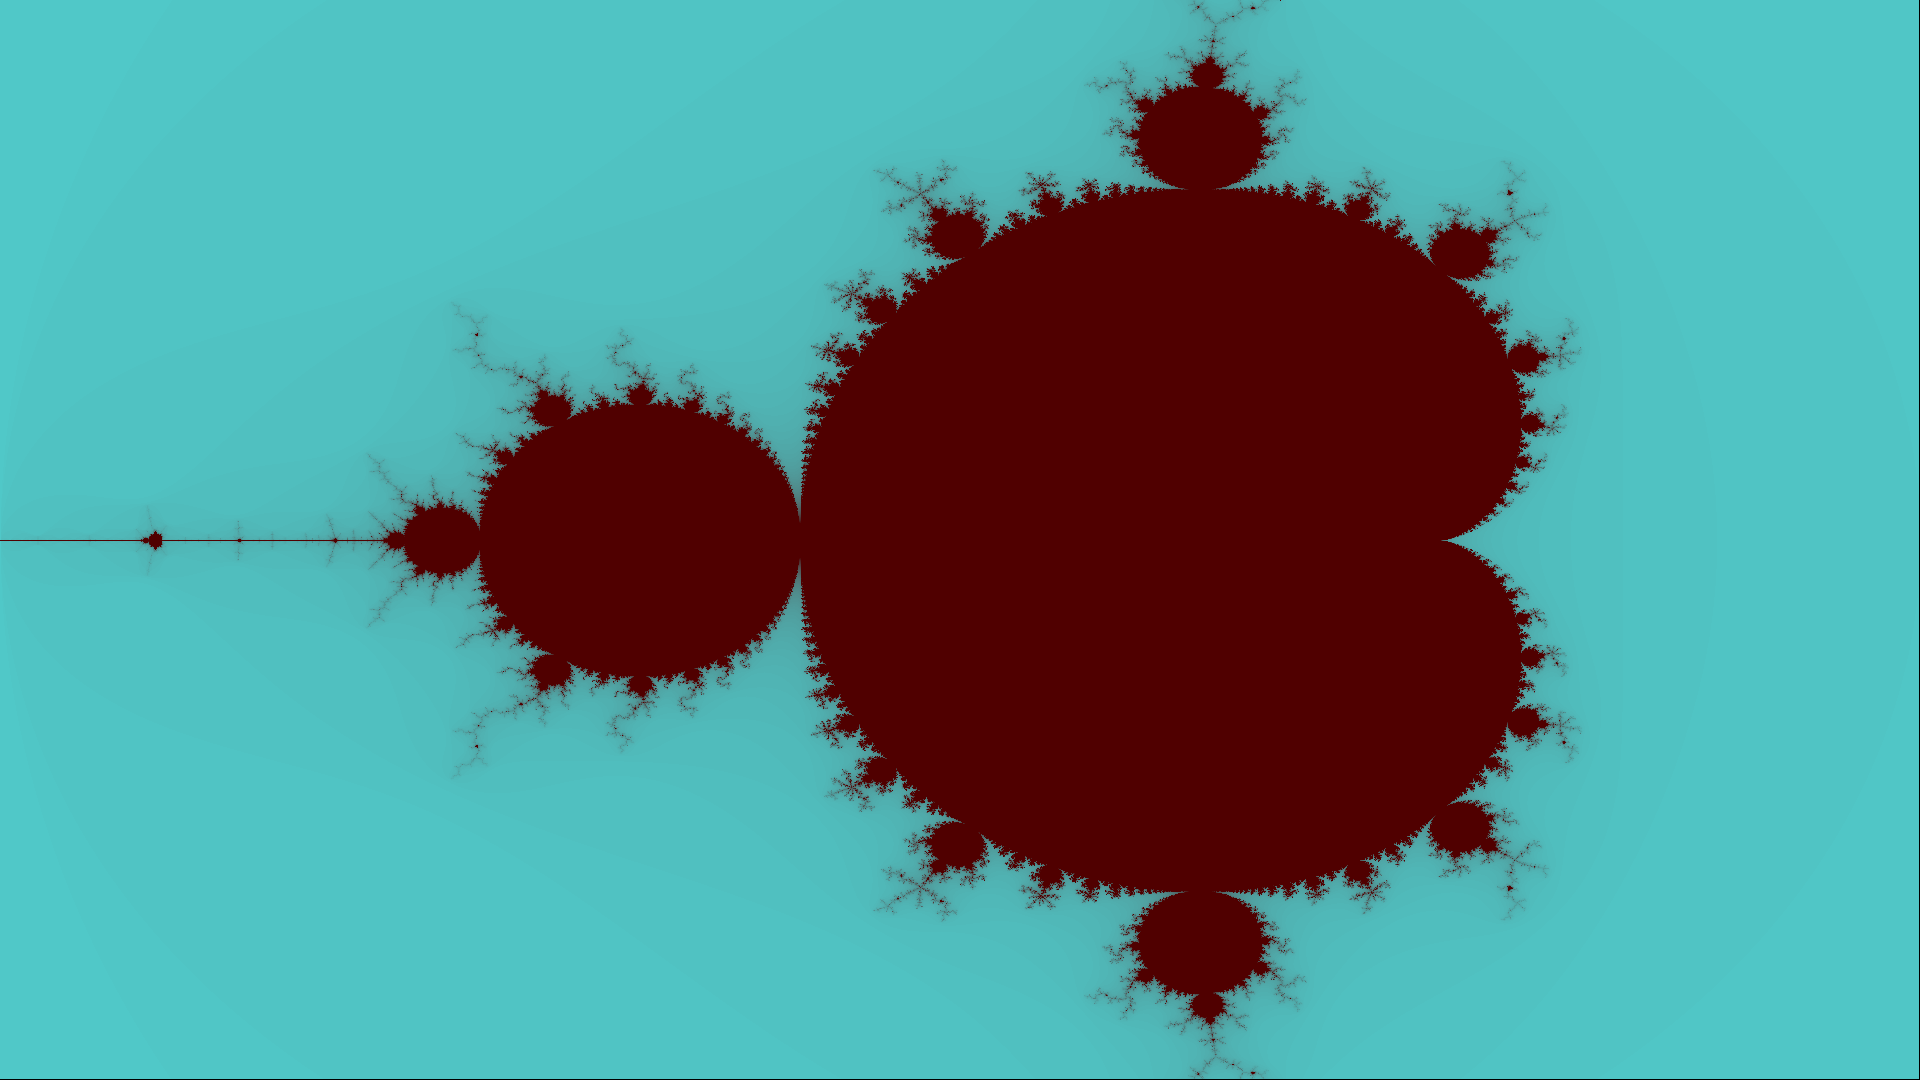
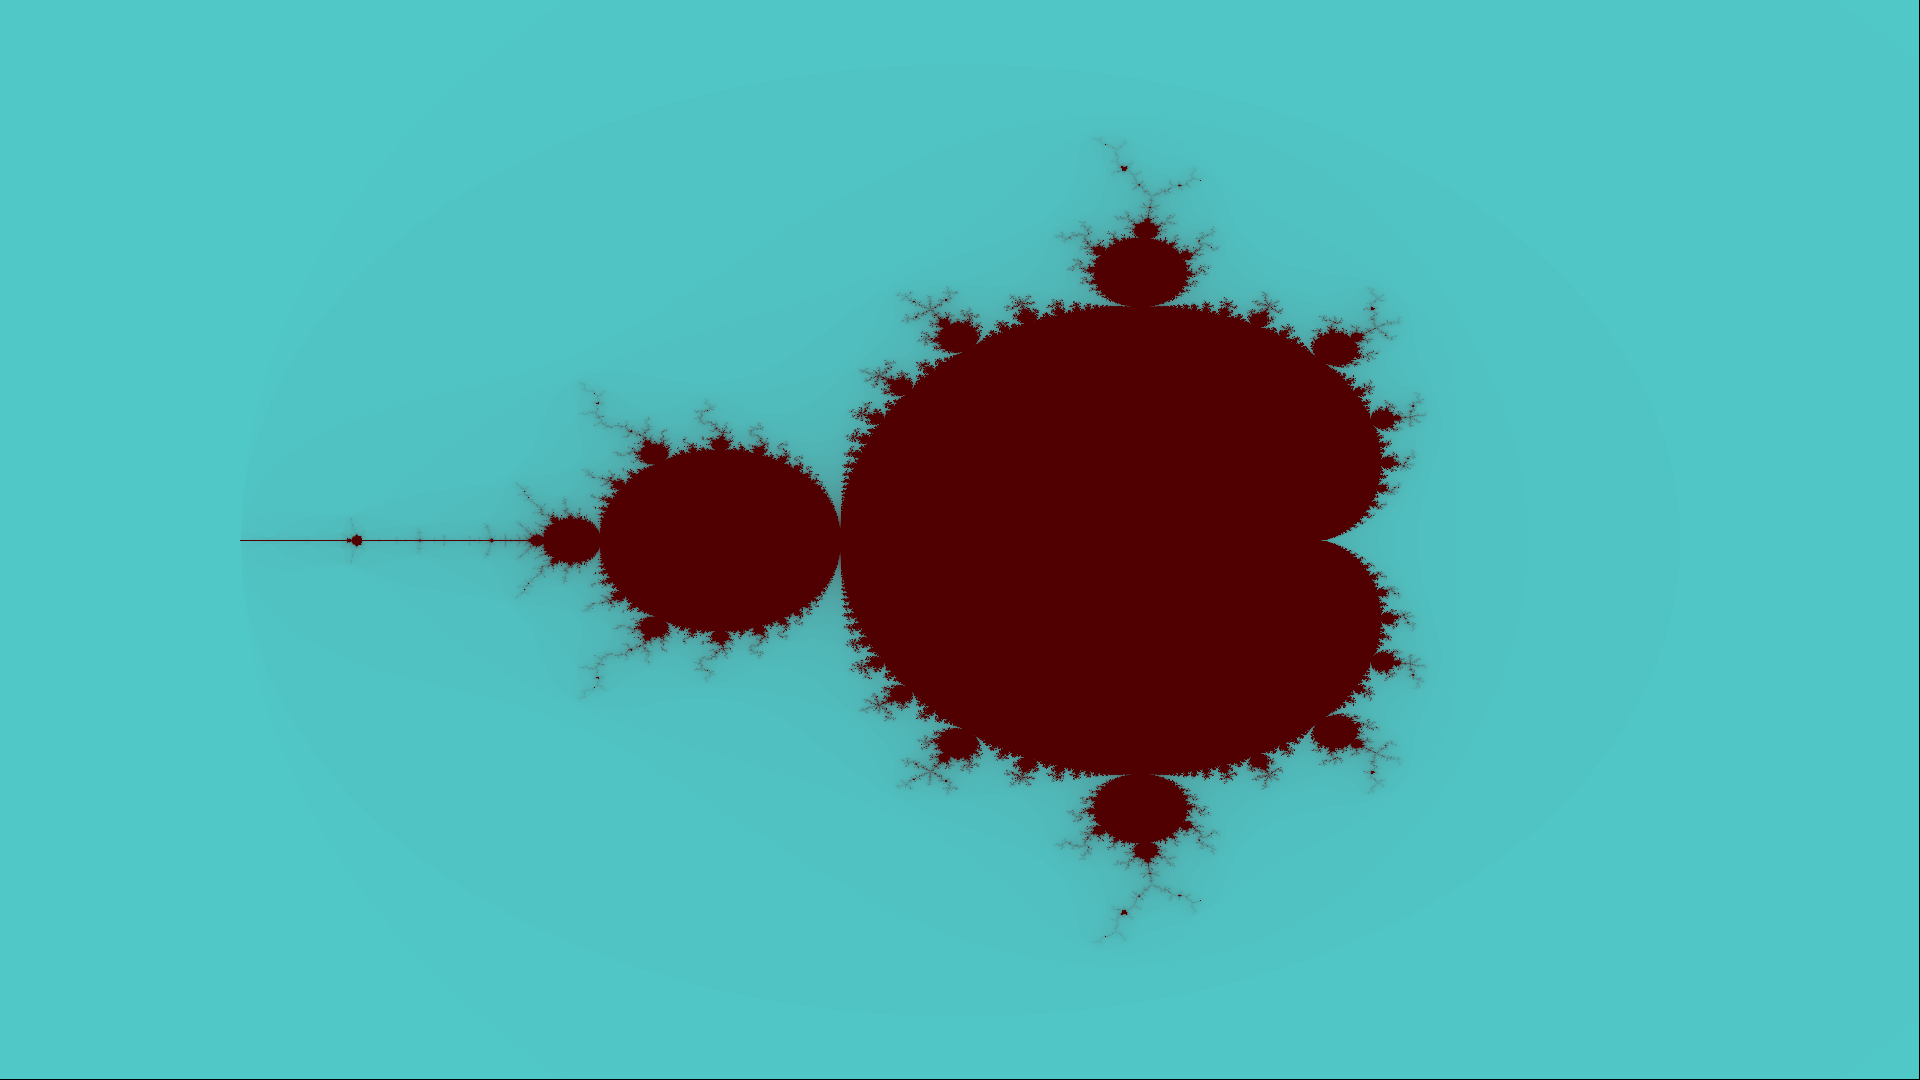
well the basics are working

diff --git a/test.html b/test.html
@@ -1,0 +1,75 @@
+<!DOCTYPE html>
+<html lang="en">
+<head>
+    <meta charset="UTF-8">
+    <meta http-equiv="X-UA-Compatible" content="IE=edge">
+    <meta name="viewport" content="width=device-width, initial-scale=1.0">
+    <title>Document</title>
+</head>
+<body>
+    <div id="input-form">
+        <div>
+            <label for="min-x">Min x</label>
+            <input type="text" name="min-x" id="min-x">
+            <label for="max-x">Max x</label>
+            <input type="text" name="max-x" id="max-x">
+            <label for="min-y">Min y</label>
+            <input type="text" name="min-y" id="min-y">
+            <label for="max-y">Max y</label>
+            <input type="text" name="max-y" id="max-y">
+            <label for="width">Width</label>
+            <input type="text" name="width" id="width">
+            <label for="height">Height</label>
+            <input type="text" name="height" id="height">
+        </div>
+
+        <button width="300px" height="150px" onclick="send_request();">Send request</button>
+    </div>
+
+    <!-- "width": 1920,
+    "height": 1080,
+    "min_x": parseInt(document.getElementById("min-x"), 2),
+    "max_x": 1.5,
+    "min_y": -1.5,
+    "max_y": 1.5 -->
+
+    <script>
+        document.getElementById("width").value = 1920;
+        document.getElementById("height").value = 1080;
+        document.getElementById("min-x").value = -2.5;
+        document.getElementById("max-x").value = 1.5;
+        document.getElementById("min-y").value = -1.5;
+        document.getElementById("max-y").value = 1.5;
+
+        function send_request(e) {
+            const url = 'http://127.0.0.1:5000/test/image'
+            data = {
+                "width": document.getElementById("width").value,
+                "height": document.getElementById("height").value,
+                "min_x": document.getElementById("min-x").value,
+                "max_x": document.getElementById("max-x").value,
+                "min_y": document.getElementById("min-y").value,
+                "max_y": document.getElementById("max-y").value,
+            }
+            params = {
+                method: 'POST',
+                headers: { "Content-Type": "application/json" },
+                body: JSON.stringify(data),
+                mode: 'cors'
+            }
+            fetch(url, params)
+            .then(data => {return data.json()})
+            .then(res => {console.log(res)})
+            .catch(error => console.log(error))
+        }
+
+        function submitHandler(submitEvent) {
+            alert("Stopping with value: " + text.value);
+            submitEvent.preventDefault();
+        }
+
+        document.getElementById("input-form").addEventListener("submit", submitHandler);
+
+    </script>
+</body>
+</html>

diff --git a/main.py b/main.py
@@ -1,31 +1,42 @@
 from flask import Flask, request, jsonify
+from flask_cors import CORS, cross_origin
 
 from PIL import Image, ImageDraw
 
-
 app = Flask(__name__)
+
+cors = CORS(app)
 
 @app.route("/")
 def hello_world():
-    return \
-    """
+
+    text = """
     <p>Hello, world!</p>
     <img src="https://www.google.com/images/branding/googlelogo/2x/googlelogo_color_92x30dp.png"/>
     <img src="/static/myimg.png"/>
     """
 
+    return text
+
 
 @app.route('/test/image', methods=['POST'])
+@cross_origin(origin='*')
 def request_image():
-    print("request")
+    @app.after_request
+    def add_header(response):
+        response.headers['Access-Control-Allow-Origin'] = '*'
+        return response
     json = request.get_json()
     width = int(json.get('width'))
     height = int(json.get('height'))
-    transform_window = Window2D(int(json.get('min_x')), int(json.get('max_x')),
-        int(json.get('min_y')), int(json.get('max_y')))
+    transform_window = Window2D(float(json.get('min_x')), float(json.get('max_x')),
+        float(json.get('min_y')), float(json.get('max_y')))
     
     image_render_request(width, height, transform_window)
-    return jsonify(None)
+
+    response = jsonify({"success": "probably"})
+
+    return response
 
 # window_map = Window2D(-2, 0.5, -1.15, 1.15)
 def image_render_request(pixel_width, pixel_height, cartesian_window):
@@ -109,3 +120,6 @@ def test2():
             pixels[col, row] = (80, value*2, value*2)
     
     img.save('static/myimg.png')
+
+if __name__ == "__main__":
+    app.run()
